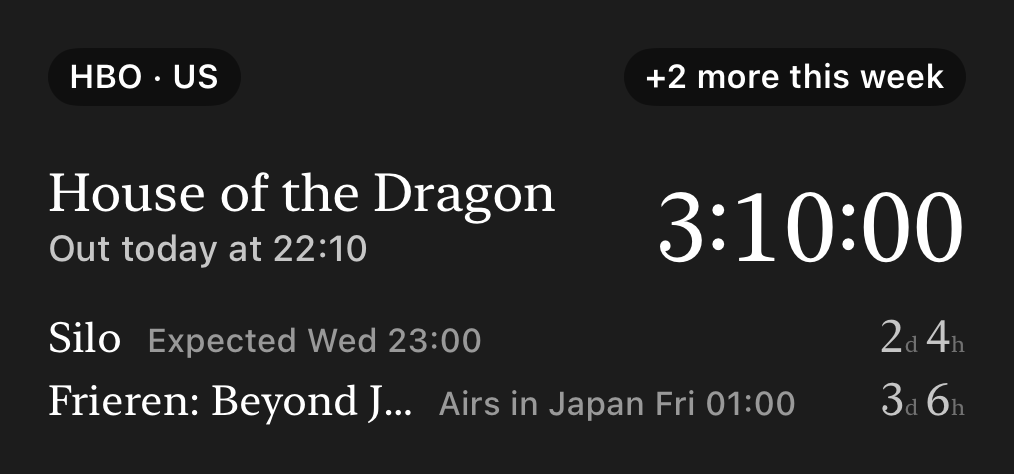
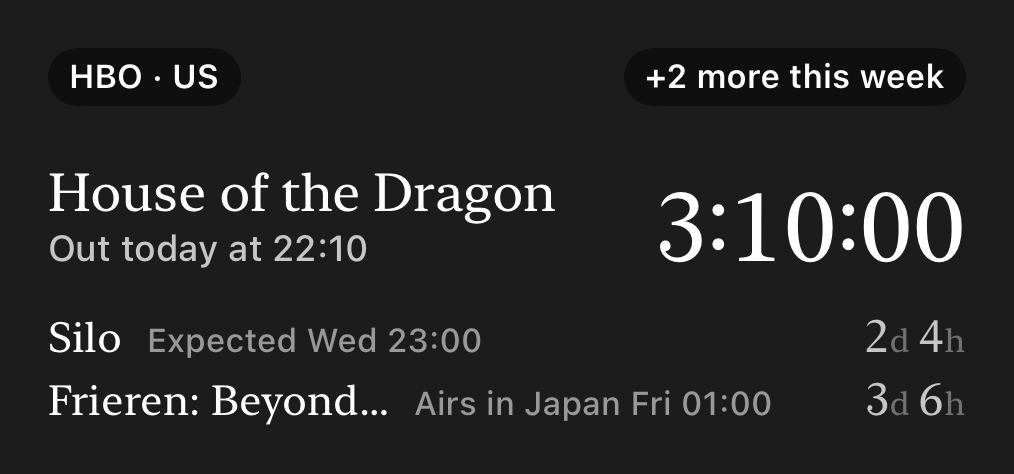
feat: smaller countdowns that grow with the text size, and Show detail's actions as a card (D-60)
From Chime's walkthrough and the UX audit: the headline countdown is 64 pt on Upcoming and Show detail and 48 on the
show page (was 88, 2.75 times the title). App countdowns and show titles grow like .largeTitle (1.76 times at the
largest text size, not 3.1), a date-only show no longer repeats its day in big type, and countdown words and units
never go under 11 pt. Report a wrong time and Unfollow are a card of rows with symbols; Report shows it leaves the app,
Unfollow is red and still asks. The design system and its renders follow.

Changed region(s): [[0.3669, 0.7975, 0.7949, 0.8861], [0.856, 0.6498, 0.9477, 0.7679], [0.856, 0.7975, 0.9477, 0.8861]]

diff --git a/design-system/index.html b/design-system/index.html
@@ -264,7 +264,7 @@
   </div>
 
   <h3 id="type-scale-h">Every size in the app</h3>
-  <p class="small">From the 88 pt hero countdown down to the 10 pt unit in the circular widget, at 1 pt to 1 px. Type your own text to try it at every size.</p>
+  <p class="small">From the 64 pt hero countdown down to the 10 pt unit in the circular widget, at 1 pt to 1 px. Type your own text to try it at every size.</p>
   <div class="custom-type" id="specimens">
     <label for="custom-text">Sample text</label>
     <input id="custom-text" type="text" placeholder="A show name, or 2:10:07" autocomplete="off">
@@ -559,10 +559,10 @@
       <figure class="state"><div class="stage" style="width:390px;padding:20px 24px"><div class="hl-title">Silo</div><div class="cd hl-cd" data-cd="189622">2<span class="d">d </span>4<span class="d">h</span></div><div class="hl-out" data-out="Expected" data-naming>Expected Wed at 23:00 Lagos time</div></div><figcaption>Estimate, more than a day: still</figcaption></figure>
       <figure class="state"><div class="stage" style="width:390px;padding:20px 24px"><div class="hl-title">Frieren: Beyond Journey’s End</div><div class="cd hl-cd" data-cd="19524">5:25:24</div><div class="hl-out" data-out="Airs in Japan" data-naming>Airs in Japan tomorrow at 01:24 Lagos time</div></div><figcaption>Anime: the Japanese TV time</figcaption></figure>
       <figure class="state"><div class="stage" style="width:390px;padding:20px 24px"><div class="hl-title">House of the Dragon</div><div class="cd hl-cd"><span class="cd-word out" style="font-size:.7em">Out now</span></div><div class="hl-out">Released today at 21:00 <span data-zone>Lagos</span> time</div></div><figcaption>Out now, for the first hour</figcaption></figure>
-      <figure class="state"><div class="stage" style="width:390px;padding:20px 24px"><div class="hl-title">Severance</div><div class="cd hl-cd"><span class="cd-word" style="font-size:.6em">Thu 19 Nov</span></div><div class="hl-out">Out Thu 19 Nov, time not announced</div></div><figcaption>Date only: no timer</figcaption></figure>
+      <figure class="state"><div class="stage" style="width:390px;padding:20px 24px"><div class="hl-title">Severance</div><div class="hl-out">Out Thu 19 Nov, time not announced</div></div><figcaption>Date only: no countdown line, so the day isn’t said twice</figcaption></figure>
     </div>
     <div class="spec"><dl class="specs">
-      <dt>Type</dt><dd>Title New York 32, up to 2 lines, scaling down to 0.7. Countdown New York Light 88. Out line SF Pro body medium, 4 pt below</dd>
+      <dt>Type</dt><dd>Title New York 32, up to 2 lines, scaling down to 0.7. Countdown New York Light 64 on Upcoming and Show detail, 48 on the show page (it was 88, 2.75 times the title: UX audit #2). Out line SF Pro body medium, 4 pt below. Title and countdown grow with the text size like a large title (1.76 times at the largest size)</dd>
       <dt>Ink</dt><dd>All <code>NightInk.primary</code>; the stack is 4 pt apart</dd>
       <dt>Copy</dt><dd><code>ReleaseWording.outLine(naming: true)</code> adds “… Lagos time”, except for a date only</dd>
       <dt>VoiceOver</dt><dd>“House of the Dragon, heading”, then the timer, then “Out today at 22:10 Lagos time”. Days read “2 days 4 hours”</dd>
@@ -613,7 +613,7 @@
       <figure class="state"><div class="stage" style="text-align:right"><div class="cd" style="font-size:24px" data-cd="99022">1<span class="d">d </span>3<span class="d">h</span></div></div><figcaption>In a row: 24, trailing</figcaption></figure>
     </div>
     <div class="spec"><dl class="specs">
-      <dt>Sizes in use</dt><dd>88 hero · 46, 36 and 32 in widget heroes · 26 rectangular · 24 row · 22 large-widget row · 15 compact row</dd>
+      <dt>Sizes in use</dt><dd>64 hero and Show detail · 48 show page · 46, 36 and 32 in widget heroes · 26 rectangular · 24 row · 22 large-widget row · 15 compact row. Units half the numerals, never under 11; app countdowns grow like a large title</dd>
       <dt>Type</dt><dd>New York Light, tabular; the “d” and “h” are 0.5 times, secondary; “Out now” 0.7 times; “Released”, a date and “Date not set” 0.6 times; it scales with Dynamic Type</dd>
       <dt>Ink</dt><dd>The <code>tint</code> it is given (white in the app and widgets), “Released” in secondary. Only “Out now” is Meridian Gold, and only in full colour; tinted widgets keep the system’s tint</dd>
       <dt>Width</dt><dd>Under a day, a hidden template of the widest value, such as “00:00:00”; scales down to 0.5, one line</dd>
@@ -950,7 +950,7 @@ AiringFilter.options(for: .tv)   // [.popular, .today, .newSeasons, .exactTime] 
       <button role="tab" type="button" id="spg-t2" aria-controls="spg-p2" aria-selected="false">Nothing scheduled</button>
     </div>
     <div class="states">
-      <figure class="state" role="tabpanel" id="spg-p1" aria-labelledby="spg-t1"><div class="phone" style="--night:#1C1B1A"><div class="nah tall"><div class="art warm" data-show="silo"></div><div class="fade"></div><div class="scrim-top"></div><span class="glass" style="position:absolute;left:16px;top:58px" aria-hidden="true"><svg><use href="#i-chevron"/></svg></span></div><div class="phone-copy" style="display:grid;gap:32px"><div style="display:grid;gap:12px"><div><div class="hl-title">Silo</div><div class="cd hl-cd"><span class="cd-word" style="font-size:.6em">Fri 9 Jul 2027</span></div><div class="hl-out">Out Fri 9 Jul 2027, time not announced</div></div><div class="meta">2023 · Apple TV · Running</div></div><span class="btn-follow"><svg width="15" height="15" aria-hidden="true"><use href="#i-plus"/></svg>Follow</span></div></div><figcaption>With an episode, date only</figcaption></figure>
+      <figure class="state" role="tabpanel" id="spg-p1" aria-labelledby="spg-t1"><div class="phone" style="--night:#1C1B1A"><div class="nah tall"><div class="art warm" data-show="silo"></div><div class="fade"></div><div class="scrim-top"></div><span class="glass" style="position:absolute;left:16px;top:58px" aria-hidden="true"><svg><use href="#i-chevron"/></svg></span></div><div class="phone-copy" style="display:grid;gap:32px"><div style="display:grid;gap:12px"><div><div class="hl-title">Silo</div><div class="hl-out">Out Fri 9 Jul 2027, time not announced</div></div><div class="meta">2023 · Apple TV · Running</div></div><span class="btn-follow"><svg width="15" height="15" aria-hidden="true"><use href="#i-plus"/></svg>Follow</span></div></div><figcaption>With an episode, date only</figcaption></figure>
       <figure class="state" role="tabpanel" id="spg-p2" aria-labelledby="spg-t2" hidden><div class="phone" style="--night:#1C1B1A"><div class="nah tall"><div class="art warm" data-show="andor"></div><div class="fade"></div><div class="scrim-top"></div><span class="glass" style="position:absolute;left:16px;top:58px" aria-hidden="true"><svg><use href="#i-chevron"/></svg></span></div><div class="phone-copy" style="display:grid;gap:32px"><div style="display:grid;gap:12px"><div class="hl-title">Andor</div><div class="meta">2022 · Disney+ · Ended</div></div><span class="btn-follow on"><svg width="15" height="15" aria-hidden="true"><use href="#i-check"/></svg>Following</span></div></div><figcaption>Nothing scheduled, following</figcaption></figure>
     </div>
     <div class="spec"><dl class="specs">
@@ -1030,13 +1030,14 @@ AiringFilter.options(for: .tv)   // [.popular, .today, .newSeasons, .exactTime] 
 
   <article class="comp" id="c-detail-actions" data-search="unfollow report a wrong time confirmation dialog destructive" data-title="Report and Unfollow" data-kind="Component">
     <div class="hrow"><h3>Report and Unfollow</h3></div>
-    <p class="purpose">The quiet actions at the foot of Show detail. Unfollow is the only destructive action, and it always asks first.</p>
+    <p class="purpose">The actions at the foot of Show detail, grouped in one card like Settings’ rows (Chime and UX audit #4: as grey text they looked disabled). Unfollow is the only destructive action: red, and it always asks first.</p>
     <div class="states">
-      <figure class="state"><div class="stage" style="width:342px;display:grid;gap:16px"><span class="quiet-link">Report a wrong time</span><span class="quiet-link">Unfollow</span></div><figcaption>Each a 44 pt row</figcaption></figure>
+      <figure class="state"><div class="stage" style="width:342px"><div style="background:rgba(255,255,255,.08);border-radius:14px"><div style="display:flex;align-items:center;gap:12px;min-height:52px;padding:0 16px;color:#fff;font-size:17px"><span aria-hidden="true" style="width:24px;display:grid;place-items:center"><svg width="20" height="20" viewBox="0 0 24 24" fill="none" stroke="currentColor" stroke-width="1.8" stroke-linejoin="round"><path d="M4 4.5h16v11.5H10l-6 4.5z"/><path d="M12 7.5v4.5M12 14.2v.3" stroke-linecap="round"/></svg></span><span style="flex:1">Report a wrong time</span><span aria-hidden="true" style="color:rgba(235,235,245,.6);font-size:13px;font-weight:600">↗</span></div><div style="height:.5px;background:rgba(255,255,255,.12);margin-left:52px"></div><div style="display:flex;align-items:center;gap:12px;min-height:52px;padding:0 16px;color:#FF453A;font-size:17px"><span aria-hidden="true" style="width:24px;display:grid;place-items:center"><svg width="20" height="20" viewBox="0 0 24 24" fill="none" stroke="currentColor" stroke-width="1.8"><circle cx="12" cy="12" r="9"/><path d="M8 12h8" stroke-linecap="round"/></svg></span><span>Unfollow</span></div></div></div><figcaption>One card: symbol, label, and ↗ where it opens Mail</figcaption></figure>
       <figure class="state"><div class="stage" style="width:342px;background:#0a0a0a"><div class="sheet"><div class="sheet-title">Stop following Silo?</div><div class="sheet-act destructive">Unfollow</div></div><div class="sheet cancel">Cancel</div></div><figcaption>The system confirmation dialog</figcaption></figure>
     </div>
     <div class="spec"><dl class="specs">
-      <dt>Type</dt><dd>Subheadline, <code>NightInk.muted</code>, each a 44 pt row, tappable across its height</dd>
+      <dt>Card</dt><dd>White 8% fill, radius 14 (<code>Tokens.Radius.card</code>); rows at least 52 tall, sides 16, a 0.5 pt divider at white 12% inset 52</dd>
+      <dt>Rows</dt><dd>SF Symbols in a 24 pt column (<code>exclamationmark.bubble</code>, <code>minus.circle</code>), body text; Report white with a muted <code>arrow.up.right</code> and the hint “Opens an email”; Unfollow system red</dd>
       <dt>Report</dt><dd>Opens an email in the viewer’s mail app, prefilled with show, episode, the time as shown and in UTC, where it came from, the zone, the episode ID and the app version (<code>ReportURLBuilder</code>). Once the repo is public it opens a prefilled GitHub issue (D-34). With no mail app, the report is copied and an alert says so</dd>
       <dt>Copy</dt><dd>“Report a wrong time” · “Unfollow” · the dialog asks “Stop following Silo?”</dd>
       <dt>IDs</dt><dd><code>detail-report</code>, <code>detail-unfollow</code></dd>

diff --git a/Meridian/Features/ShowDetail/ShowDetailView.swift b/Meridian/Features/ShowDetail/ShowDetailView.swift
@@ -37,17 +37,7 @@ struct ShowDetailView: View {
                                 EpisodeRows(episodes: episodes, ink: .white, formatter: formatter)
                             }
                         }
-                        // Each a 44 pt row, so the tap target is the HIG minimum, not the text's 20.
-                        VStack(alignment: .leading, spacing: 0) {
-                            if let onReport {
-                                Button(action: onReport) { tapRow("Report a wrong time") }
-                                    .accessibilityIdentifier("detail-report")
-                            }
-                            Button(role: .destructive) { confirmingUnfollow = true } label: { tapRow("Unfollow") }
-                                .accessibilityIdentifier("detail-unfollow")
-                        }
-                        .font(.subheadline)
-                        .foregroundStyle(NightInk.muted)
+                        actions
                     }
                     .padding(.horizontal, Tokens.Space.l)
                     .padding(.top, -64)
@@ -98,11 +88,50 @@ struct ShowDetailView: View {
         .accessibilityIdentifier("detail-live-activity")
     }
 
-    /// A text button's label, 44 pt tall and tappable across that height.
-    private func tapRow(_ title: String) -> some View {
-        Text(title)
-            .frame(minHeight: 44, alignment: .leading)
-            .contentShape(.rect)
+    /// Report and Unfollow as a grouped card, like Settings' rows (Chime and the UX audit #4, 2 Nov: as grey text they
+    /// looked disabled, and the grey hid Unfollow's red). Report shows it leaves the app; Unfollow is red and still asks.
+    private var actions: some View {
+        VStack(spacing: 0) {
+            if let onReport {
+                Button(action: onReport) {
+                    actionRow("Report a wrong time", systemImage: "exclamationmark.bubble", ink: .white, leavesApp: true)
+                }
+                .accessibilityIdentifier("detail-report")
+                .accessibilityHint(ReportRoute.current == .githubIssue ? "Opens a GitHub issue" : "Opens an email")
+                Rectangle().fill(.white.opacity(0.12)).frame(height: 0.5).padding(.leading, 52)
+            }
+            Button(role: .destructive) { confirmingUnfollow = true } label: {
+                actionRow("Unfollow", systemImage: "minus.circle", ink: Color(uiColor: .systemRed), leavesApp: false)
+            }
+            .accessibilityIdentifier("detail-unfollow")
+        }
+        .buttonStyle(.plain)
+        .background(.white.opacity(0.08), in: .rect(cornerRadius: Tokens.Radius.card))
+    }
+
+    /// One row: a symbol in a fixed column, the label, and an arrow when it opens another app. At least 52 pt tall,
+    /// tappable across its width.
+    private func actionRow(_ title: String, systemImage: String, ink: Color, leavesApp: Bool) -> some View {
+        HStack(spacing: Tokens.Space.s) {
+            Image(systemName: systemImage)
+                .font(.body)
+                .frame(width: 24)
+                .accessibilityHidden(true)
+            Text(title)
+                .font(.body)
+                .multilineTextAlignment(.leading)
+                .frame(maxWidth: .infinity, alignment: .leading)
+            if leavesApp {
+                Image(systemName: "arrow.up.right")
+                    .font(.footnote.weight(.semibold))
+                    .foregroundStyle(NightInk.muted)
+                    .accessibilityHidden(true)
+            }
+        }
+        .foregroundStyle(ink)
+        .padding(.horizontal, Tokens.Space.m)
+        .frame(minHeight: 52)
+        .contentShape(.rect)
     }
 }
 

diff --git a/Shared/Design/CountdownText.swift b/Shared/Design/CountdownText.swift
@@ -22,7 +22,9 @@ struct CountdownText: View {
     var alignment: Alignment = .leading
 
     @Environment(\.numeralStudy) private var study
-    @ScaledMetric private var scale: CGFloat = 1
+    /// Grows like a large title (1.76 times at the largest size), not like body text (3.1 times), so at large text
+    /// sizes the countdown stays in step with the title above it (UX audit #3, 2 Nov).
+    @ScaledMetric(relativeTo: .largeTitle) private var scale: CGFloat = 1
     /// Gold only in full colour: tinted, clear and Lock Screen renderings keep the system's tint (D-53).
     @Environment(\.widgetRenderingMode) private var renderingMode
 
@@ -39,12 +41,12 @@ struct CountdownText: View {
         switch CountdownFormatter.state(drop: drop, confidence: confidence, now: now) {
         case .dateOnly:
             Text(airdate.flatMap { formatter.airdate($0, now: now) } ?? "Date not set")
-                .font(study.font(size: size * 0.6 * scale))
+                .font(minor(0.6))
         case .outNow:
-            Text("Out now").font(study.font(size: size * 0.7 * scale))
+            Text("Out now").font(minor(0.7))
                 .foregroundStyle(renderingMode == .fullColor ? Color(uiColor: Tokens.gold) : tint)
         case .released:
-            Text("Released").font(study.font(size: size * 0.6 * scale)).foregroundStyle(.secondary)
+            Text("Released").font(minor(0.6)).foregroundStyle(.secondary)
         case .ticking:
             live
         case .coarse(let parts):
@@ -61,6 +63,10 @@ struct CountdownText: View {
     }
 
     private var digits: Font { study.font(size: size * scale).monospacedDigit() }
+
+    /// Words and unit letters at a fraction of the numerals, but never under 11 pt (UX audit #19: 7.5 pt in the
+    /// widgets' compact rows).
+    private func minor(_ factor: CGFloat) -> Font { study.font(size: max(size * factor * scale, 11)) }
 
     /// The last day's live count, inside a hidden template as wide as its widest value.
     private var live: some View {
@@ -79,7 +85,7 @@ struct CountdownText: View {
     /// "4d 4h" more than a day away: bright digits, the unit letters smaller and dim. Static text, so it needs no
     /// template; the caller's `now` steps it (hourly widget entries, the app's per-second redraw).
     private func still(_ parts: [CountdownPart]) -> Text {
-        let unit = study.font(size: size * 0.5 * scale)
+        let unit = minor(0.5)
         return parts.enumerated().reduce(Text(verbatim: "")) { text, item in
             let gap = Text(verbatim: item.offset == 0 ? "" : " ").font(unit)
             let value = Text(verbatim: "\(item.element.value)").font(digits)

diff --git a/Meridian/Features/Upcoming/UpcomingHero.swift b/Meridian/Features/Upcoming/UpcomingHero.swift
@@ -30,20 +30,27 @@ struct ReleaseHeadline: View {
     let now: Date
     var formatter = DropFormatter()
     var titleSize: CGFloat = 32
-    var countdownSize: CGFloat = 88
+    /// 64 on Upcoming and Show detail, 48 on the show page: 2 and 1.5 times the title. It was 88, 2.75 times, and
+    /// took 15% of the screen (Chime and the UX audit, 2 Nov).
+    var countdownSize: CGFloat = 64
+    /// The title grows with the text size like a large title, so it never ends up smaller than the lines under it.
+    @ScaledMetric(relativeTo: .largeTitle) private var titleScale: CGFloat = 1
     /// Prefix for the test IDs: `upcoming-hero` or `detail` (UI-BRIEF).
     var testID = "headline"
 
     var body: some View {
         VStack(alignment: .leading, spacing: Tokens.Space.xxs) {
             Text(drop.showName)
-                .font(.system(size: titleSize, design: .serif))
+                .font(.system(size: titleSize * titleScale, design: .serif))
                 .lineLimit(2).minimumScaleFactor(0.7)
                 .accessibilityAddTraits(.isHeader)
                 .accessibilityIdentifier("\(testID)-title")
-            CountdownText(drop: drop.date, confidence: drop.confidence, airdate: drop.airdate, now: now,
-                          size: countdownSize, tint: .white, formatter: formatter)
-                .environment(\.numeralStudy, .night)
+            // A date-only drop has no countdown: its day is in the out line, so it isn't said twice in big type.
+            if drop.confidence != .dateOnly {
+                CountdownText(drop: drop.date, confidence: drop.confidence, airdate: drop.airdate, now: now,
+                              size: countdownSize, tint: .white, formatter: formatter)
+                    .environment(\.numeralStudy, .night)
+            }
             Text(ReleaseWording.outLine(drop, now: now, formatter: formatter, naming: true))
                 .font(.body.weight(.medium))
                 .foregroundStyle(NightInk.primary)

diff --git a/design-system/assets/site.js b/design-system/assets/site.js
@@ -255,7 +255,7 @@
   /* ================================================================ type */
   // [role, surface, family, size, weight, numerals, where]
   const TYPE = [
-    ['Hero countdown', 'App', 'serif', 88, 300, true, 'Upcoming hero, Show detail, the show page'],
+    ['Hero countdown', 'App', 'serif', 64, 300, true, 'Upcoming hero and Show detail; 48 on the show page'],
     ['Welcome headline', 'App', 'serif', 34, 400, false, 'Welcome'],
     ['Welcome wordmark', 'App', 'serif', 22, 400, false, '“Meridian” in title 2, Starlight, beside the 36 pt mark; both grow with Dynamic Type'],
     ['Hero title', 'App', 'serif', 32, 400, false, 'Headline title, spotlight, the show page'],

diff --git a/Meridian/Features/Search/ShowPreviewView.swift b/Meridian/Features/Search/ShowPreviewView.swift
@@ -42,7 +42,8 @@ struct ShowPreviewView: View {
                             if let drop {
                                 // Only the countdown follows the clock, so only it redraws every second.
                                 TimelineView(.countdown) { timeline in
-                                    ReleaseHeadline(drop: drop, now: timeline.date, testID: "show-preview")
+                                    ReleaseHeadline(drop: drop, now: timeline.date, countdownSize: 48,
+                                                    testID: "show-preview")
                                 }
                             } else {
                                 Text(result.title)

diff --git a/design-system/assets/site.css b/design-system/assets/site.css
@@ -447,7 +447,7 @@ dl.specs dd { margin: 0; color: var(--ink-2); overflow-wrap: anywhere; padding-l
 .cd { font-family: var(--serif); font-weight: 300; font-variant-numeric: tabular-nums; line-height: 1; white-space: nowrap; }
 .cd .d { font-size: .5em; color: rgba(255, 255, 255, .6); }
 .hl-title { font: 400 32px/1.12 var(--serif); }
-.hl-cd { font-size: 88px; margin-top: 4px; }
+.hl-cd { font-size: 64px; margin-top: 4px; }
 .hl-out { font: 500 17px/1.3 var(--sans); margin-top: 8px; }
 .meta { font: 13px/1.35 var(--sans); color: var(--app-ink-muted); }
 

diff --git a/docs/DECISIONS.md b/docs/DECISIONS.md
@@ -56,6 +56,7 @@ These came from the research update in `RESEARCH.md` (29 Oct). Where an entry su
 | D-45 | **Supersedes the service-chip rule in D-43/D-44.** Search's service chips are a **fixed list of 12 major platforms, always shown in the same order**: Netflix, Prime Video, HBO Max (also holding HBO's own channel), Disney+, Paramount+, Hulu, Peacock, Apple TV (the big streamers by reported paid subscribers, 2026 estimates: ~325M, ~205M, ~140M, ~132M, ~79M, ~64M, ~46M; Apple TV publishes none), then CBS, NBC, ABC, FOX. A platform with nothing in the next few days keeps its chip and says "Nothing on Paramount+ in the next few days." Every other service (YouTube, BBC iPlayer, small channels) gets no chip; its shows still appear under Popular, Today, New seasons and Exact time. All 12 have logos, so the logo grouping of D-44 holds by construction. Code: `PopularServices`. | Chime (1 Nov 2026): "Can we remove YouTube… BBC iPlayer is not relevant… show the popular platforms that most people use", and asked for Paramount+. Picking the 6 services with the most shows this week let minor ones in and left Paramount+ out (nothing on it in the 3-day window), and made the row change from day to day. |
 | D-44 | **Service chips show the service's logo, and logo chips sit together.** Search's service filters (D-43) show the network's logo on a small white tile before its name, where one is known; within the 6 services with the most shows, those with a logo come first, then the rest, so logo and plain chips aren't mixed (Chime, 1 Nov 2026). Logos come from a hand-checked list of **freely licensed Wikimedia Commons files** (`rules/network-logos.json`: TVmaze names → file, licence, credit, image URL), loaded at runtime like posters and never committed as images (rule 9); Credits names Wikimedia and lists required credits. The **Netflix Top 10 link chip is dropped** (Chime: it only sends you to another site). Rejected: each network's own site icon (about half missing, some wrong: hulu.com serves the Disney+ icon, and it scrapes sites) and Google's favicon service (undocumented, a new third party). | Chime asked for logos "next to them… grouped together" and to remove the Netflix chip. A bundled list makes the grouping known before anything loads, so the row never reorders; Commons hosts only free files, so an open-source repo can point at them. |
 | D-43 | **Search filters and what "popular" means.** Before typing, Search shows popular shows airing in the next few days, with filters, **one at a time** like the TV | Anime switch (Chime, 1 Nov): **Popular** (default), **Today**, **New seasons**, **Exact time known** (TV) and a **Service** (TV). They narrow only that grid, not typed results. Popularity is, for now, **TVmaze `weight`** (TV) and **AniList popularity** (anime), worked out on the phone. Instead of the planned bundled list (blocked 1 Nov by Netflix's terms, O-13), a **"Top 10 on Netflix in <country>"** link chip that opens Netflix's own chart (Chime, 1 Nov; D6-9). Originally planned: a **"Top 10 on Netflix in Nigeria"** chip from **Netflix's official weekly Top 10 by country**, built offline by a script into a bundled file (fetched only once the repo is public, D-34). Rejected: Trakt or TMDB trending (they need a key in a public repo, D-06; TMDB is non-commercial only) and scraping FlixPatrol or JustWatch (SPEC non-goal). | Chime (31 Oct 2026) wants popular shows easy to reach, judged by "consensus from reliable sources". With no server, no keys and no scraping, the phone can't gather that consensus itself. Free scores ship now; an official, local chart is the closest honest consensus and fits "outside the US first" (D-17). TVmaze doesn't document what `weight` measures, so the free ranking is one site's audience, not a consensus. |
+| D-60 | **A countdown scale, and Show detail's actions as a card (Chime's walkthrough and the UX audit, 2 Nov).** The headline countdown is 64 pt on Upcoming and Show detail and 48 on the show page (it was 88, 2.75 times the title). Rows stay 24, the widgets keep their sizes, units are half the numerals with an 11 pt floor, and the app's countdowns and show titles grow with the text size like `.largeTitle` (1.76 times at AX5, not 3.1). A date-only show has no big line, since its day is already in the out line. "Report a wrong time" and "Unfollow" are rows in one card (white 8%, radius 14, rows of at least 52 pt with SF Symbols); Report shows a muted ↗ because it opens Mail, and Unfollow is system red and still asks. | 88 pt took 15% of the screen and out-shouted the title. The grey text actions looked disabled, and their grey hid Unfollow's destructive red. Details are in docs/design/UX-AUDIT.md (#2, #3, #4, #10, #19). |
 | D-59 | **Supersedes D-12's 6-hour cache for Upcoming: a followed show's next episode is asked again once its cached answer is 15 minutes old (Chime, 2 Nov).** `UpcomingLoader.freshness` (15 min) is passed as `maxAge` to `TVmazeClient.show(id:)` and `AniListClient.media(id:)`; search, schedules and artwork keep the 6-hour cache. When a refresh can't reach every show, Upcoming ends with "Updated 14:05. Couldn't refresh Silo and Frieren; pull down to try again." (`UpcomingStatus`), where 14:05 is the last refresh that reached every show (kept across launches) and no source is named, since a show may come from AniList. | D-12 paired the 6-hour cache with a 6-hourly background refresh, which was cut (D-33); the app now refreshes only when opened, so a 6-hour cache could show times, and miss delays, up to 6 hours old, and make "Updated" untrue. TVmaze caches for 60 minutes server-side, so asking more often costs it nothing; a few requests per open stay well inside TVmaze's 20 per 10 s and AniList's 30 a minute. |
 | D-58 | **Only a sure time can be "Delayed" (Day 6).** Each refresh compares every episode with the last known result (the in-memory result, or the widgets' snapshot after a cold launch). A published time (`.exact`) that moved later keeps its first listed time as `previousDate`, through more delays; moving back to it or earlier clears it (`DelayDetection`). An estimate that changes, or one replaced by a published time, is never "Delayed". Upcoming's hero and rows and Show detail say "Delayed from 20:55" in `ReleaseMeta` (muted footnote, above the episode line), and the Live Activity's `delayedFrom` now comes from `previousDate` (on new bookings too), so a refined estimate moves the activity without an old time. A booked activity that hasn't started is ended and booked again when its time moves, since its start and alert were fixed at booking; one on screen moves in place. An old time six or more days away carries its date ("Delayed from Fri 23 Oct 21:00"), as the weekday alone would match the new one. No badge, strike-through or colour (D-40). | SPEC core flow 5 asks for "Delayed" when a refresh finds a later time. Our estimates are guesses (platform rules); when a guess is refined, calling it a delay would claim the show moved, more than we know. Before this, the scheduler marked any moved time as delayed. |
 | D-57 | **The expanded Dynamic Island loses its progress bar and big countdown (Chime, 2 Nov; unslop pass).** Under the title and art, one line laid out like Upcoming's rows: the time in words on the left ("Expected Wed 23:00", as the Lock Screen's time line; "Released"/"Aired in Japan" at the drop; a weekday rather than "today", because the island isn't redrawn at midnight and "tomorrow" would go stale), the countdown on the right at the rows' 24 pt (was 34), and "Delayed from 22:00" / "Moved from 03:00" in words under the time instead of a struck-through time. A gold "Out now" replaces the numbers at the drop. `LiveActivityBar` is gone; the minimal island keeps its ring. The Live Activity renders now share the widgets' fixed clock, Mon 2 Nov 2071 18:00Z (far ahead on purpose: `ImageRenderer` draws a timer at its full length only while the real clock is before it, so the old 2026 date broke every render at 19:00 Lagos on 2 Nov), and every widget and Live Activity render must equal the design system's copy (`DesignSystemCopy`; `scripts/sync-design-system-renders.sh` updates the site). | Chime couldn't tell what the bar meant: it filled from whenever the activity started, a picture with no words (against D-40), repeating the countdown. The 34 pt timer beside a 14 pt label out-shouted the show's name. Chime asked that the design system and the app never differ; a test is the only thing that keeps that true. |

diff --git a/docs/design/UX-AUDIT.md b/docs/design/UX-AUDIT.md
@@ -31,15 +31,15 @@ Status: **Fixed** · **Planned** (agreed direction, in the current polish round)
 | # | Sev | Where | Finding | Recommendation | Status |
 |---|---|---|---|---|---|
 | 1 | Critical | Show detail, show page | Swiping from the left edge didn't go back: both screens hid the system navigation bar and drew their own button, which switches the gesture off. | Keep the system bar, invisible, with its own back button. | **Fixed** (`NavigationTests`) |
-| 2 | High | Upcoming hero, Show detail, show page | The countdown is 88 pt, 2.75 times the title: digits 64 pt tall and 263 pt wide (65% of the width), the block 14.8% of the screen. The widgets sit at 1.7–2.25 times. | One countdown scale: 64 pt on the hero and detail, 48 on the show page, 24 in rows. | Planned |
-| 3 | Critical | Every screen at large text sizes | Serif titles have fixed sizes, so they never grow, while everything else does. At AX5 "Silo" stays 32 pt under a 53 pt out line, and the countdown grows 3.1 times. The order of importance flips. | Serif text styles (`.largeTitle`, `.title`, `.title2`, `.title3`); the countdown scales with `.largeTitle` (1.76 times). | Planned |
-| 4 | High | Show detail | "Report a wrong time" and "Unfollow" look disabled: 15 pt, 60% white, no icon. The grey overrides Unfollow's destructive red. At AX5 the wrapped label is centred. | A grouped inset card: symbol and label rows, Report with an "opens elsewhere" arrow, Unfollow in system red, kept the confirmation. | Planned |
+| 2 | High | Upcoming hero, Show detail, show page | The countdown is 88 pt, 2.75 times the title: digits 64 pt tall and 263 pt wide (65% of the width), the block 14.8% of the screen. The widgets sit at 1.7–2.25 times. | One countdown scale: 64 pt on the hero and detail, 48 on the show page, 24 in rows. | **Fixed** (64 / 48) |
+| 3 | Critical | Every screen at large text sizes | Serif titles have fixed sizes, so they never grow, while everything else does. At AX5 "Silo" stays 32 pt under a 53 pt out line, and the countdown grows 3.1 times. The order of importance flips. | Serif text styles (`.largeTitle`, `.title`, `.title2`, `.title3`); the countdown scales with `.largeTitle` (1.76 times). | Partly fixed: show titles and countdowns grow; row and other titles planned |
+| 4 | High | Show detail | "Report a wrong time" and "Unfollow" look disabled: 15 pt, 60% white, no icon. The grey overrides Unfollow's destructive red. At AX5 the wrapped label is centred. | A grouped inset card: symbol and label rows, Report with an "opens elsewhere" arrow, Unfollow in system red, kept the confirmation. | **Fixed** |
 | 5 | High | Show detail (anime) | The anime offset control, a **Must** in PLAN.md, isn't built. There's no way to move Frieren from the Japan time to the stream time. | "Streams N min after Japan" stepper, 0–180 in 15s, for anime only. | Planned |
 | 6 | High | Every hero and row | "Where it's on", a third of the core question, is the weakest text: a 13 pt muted footnote limited to one line. At AX5 it truncates and loses the country ("S3E1 · HBO ·…", against rule 11). | 15 pt at 75% white, two lines at accessibility sizes. | Planned |
 | 7 | High | Show detail, AX5 | The episode label column is fixed at 52 pt, so "S3E9" stacks one letter per line. | Scaled width; at accessibility sizes, stack the label over the title. | Planned |
 | 8 | High | Upcoming rows, AX5 | The row countdown grows to 75 pt and won't shrink (`fixedSize`), squeezing the title to "The Last / of Us". | Scale it with `.largeTitle`; at accessibility sizes, put the countdown under the title. | Planned |
 | 9 | High | Welcome, AX5 | The taller text pushes the logo onto the poster wall, where contrast can drop to about 2.1:1. There's no scrolling, so a short phone can't fit it (inferred). | Scroll view; at accessibility sizes, a shorter wall. | Planned |
-| 10 | High | Show page, spotlight (date-only) | The date is said twice: "Fri 9 Jul 2027" in 53 pt type, then "Out Fri 9 Jul 2027, time not announced". | No big line for a date-only show, as the rows already do. | Planned |
+| 10 | High | Show page, spotlight (date-only) | The date is said twice: "Fri 9 Jul 2027" in 53 pt type, then "Out Fri 9 Jul 2027, time not announced". | No big line for a date-only show, as the rows already do. | **Fixed** |
 | 11 | High | Show detail | The Live Activity switch says "Starts 2 hours before" even when nothing will be booked: Live Activities are off in iOS Settings, the episode is date-only or more than 7 days away, or 3 are already booked. | Say the truth in the subtitle, with Open Settings when they're off. | Planned |
 | 12 | High | Upcoming | Shows with nothing scheduled can't be tapped, so they can't be unfollowed from Upcoming; only through Search. | A long-press Unfollow (quick), or Show detail by show (full). | Decide |
 | 13 | Medium | Settings | Changing the lead time doesn't move activities already booked, so the footer overpromises. | When the lead time changes, end the ones that haven't started and book again. | Planned |
@@ -48,7 +48,7 @@ Status: **Fixed** · **Planned** (agreed direction, in the current polish round)
 | 16 | Medium | Search | While the airing grid loads, when it fails and when it's empty, it shows the same line. A search error has no retry button. | `ContentUnavailableView` states with "Try again"; no TV results → "Search Anime". | Planned |
 | 17 | Medium | Upcoming, scrolled | The hero countdown slides under the status bar, and its ghost overlaps the clock. | A fade over the status bar. | Planned |
 | 18 | Medium | Section headers | One role, three styles: Upcoming's 15 pt muted sans, Search's 22 pt white serif "Results", Settings' system headers. | 15 pt semibold, muted, everywhere. | Planned |
-| 19 | Medium | Rows, widgets | The "d" and "h" units are half the numeral size, 7.5 pt in widget compact rows, under the 11 pt minimum. | Half size with an 11 pt floor. | Planned |
+| 19 | Medium | Rows, widgets | The "d" and "h" units are half the numeral size, 7.5 pt in widget compact rows, under the 11 pt minimum. | Half size with an 11 pt floor. | **Fixed** |
 | 20 | Medium | Show detail | Live Activity switch on and off look almost the same (white at 60% tint), and the control contrast is 2.49:1 (under 3:1). | A stronger tint; state in the subtitle (#11). | Planned |
 | 21 | Medium | Lock Screen widgets, Live Activity | In Always-On, muted text dims again to about 3.45:1. | Dim to 85%, not 70%, for muted text. | Planned |
 | 22 | Medium | Widgets (VoiceOver) | The spoken countdown is computed per timeline entry, so it can be up to 59 minutes behind the ticking timer. | While ticking, speak the release time instead. | Planned |

diff --git a/PROGRESS.md b/PROGRESS.md
@@ -2,6 +2,21 @@
 
 Build log for the one-week plan (`docs/PLAN.md`). Newest entry first.
 
+## Polish: smaller countdowns, an action card (Mon 2 Nov 2026)
+
+- **D-60, from Chime's walkthrough and the audit:**
+  - **Countdowns:** 64 pt on Upcoming and Show detail and 48 on the show page (were 88). They grow with the text size like `.largeTitle`, and so do show titles.
+  - **Date-only shows:** no big date line.
+  - **Units:** never under 11 pt.
+  - **Show detail's actions:** Report and Unfollow are now a card. Report has a symbol and ↗; Unfollow is red.
+- **The design system:** follows all of it (ReleaseHeadline, countdown sizes, show page, the action card, tokens), and the renders are re-synced. 10 medium-widget pictures changed with the unit floor.
+- **Checks:**
+  - Gate build, test and spec pass.
+  - Screen checks show-preview and settings: ALL PASS.
+  - upcoming and detail fail only on the late-evening "today" expectation; every layout and copy item is present.
+  - Simulator screenshots show the 64 pt hero, the detail card and the show page without the repeated date.
+- **Not changed:** row countdowns stay 24 pt, the size the audit kept for rows and the expanded island.
+
 ## Polish: swipe back, and a full UX audit (Mon 2 Nov 2026)
 
 - **Chime's walkthrough:**
